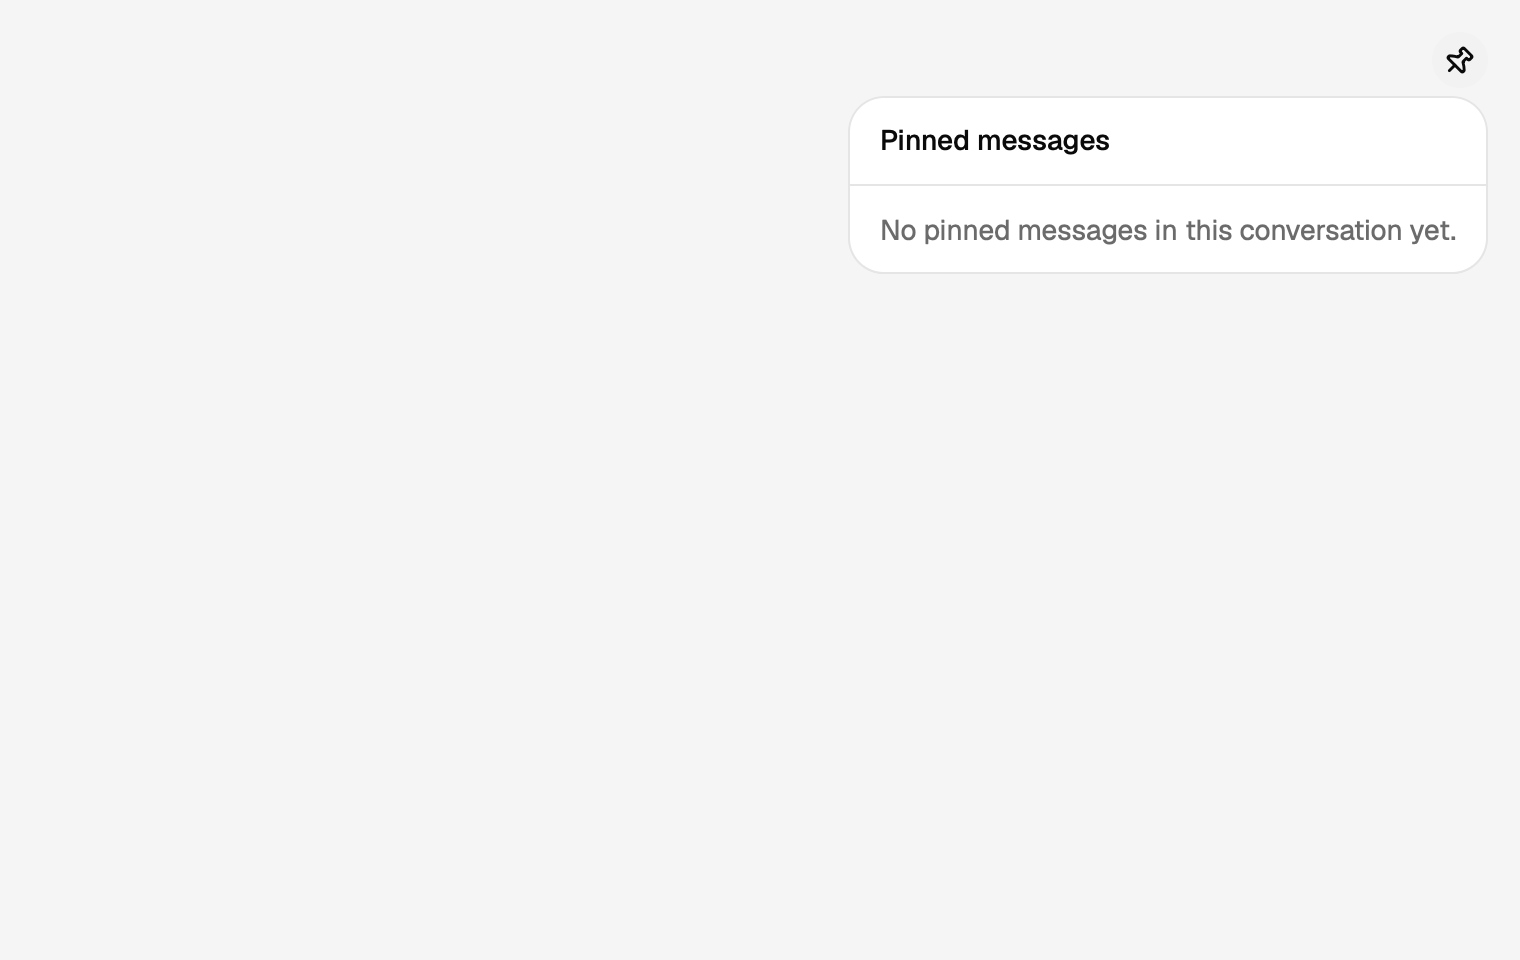
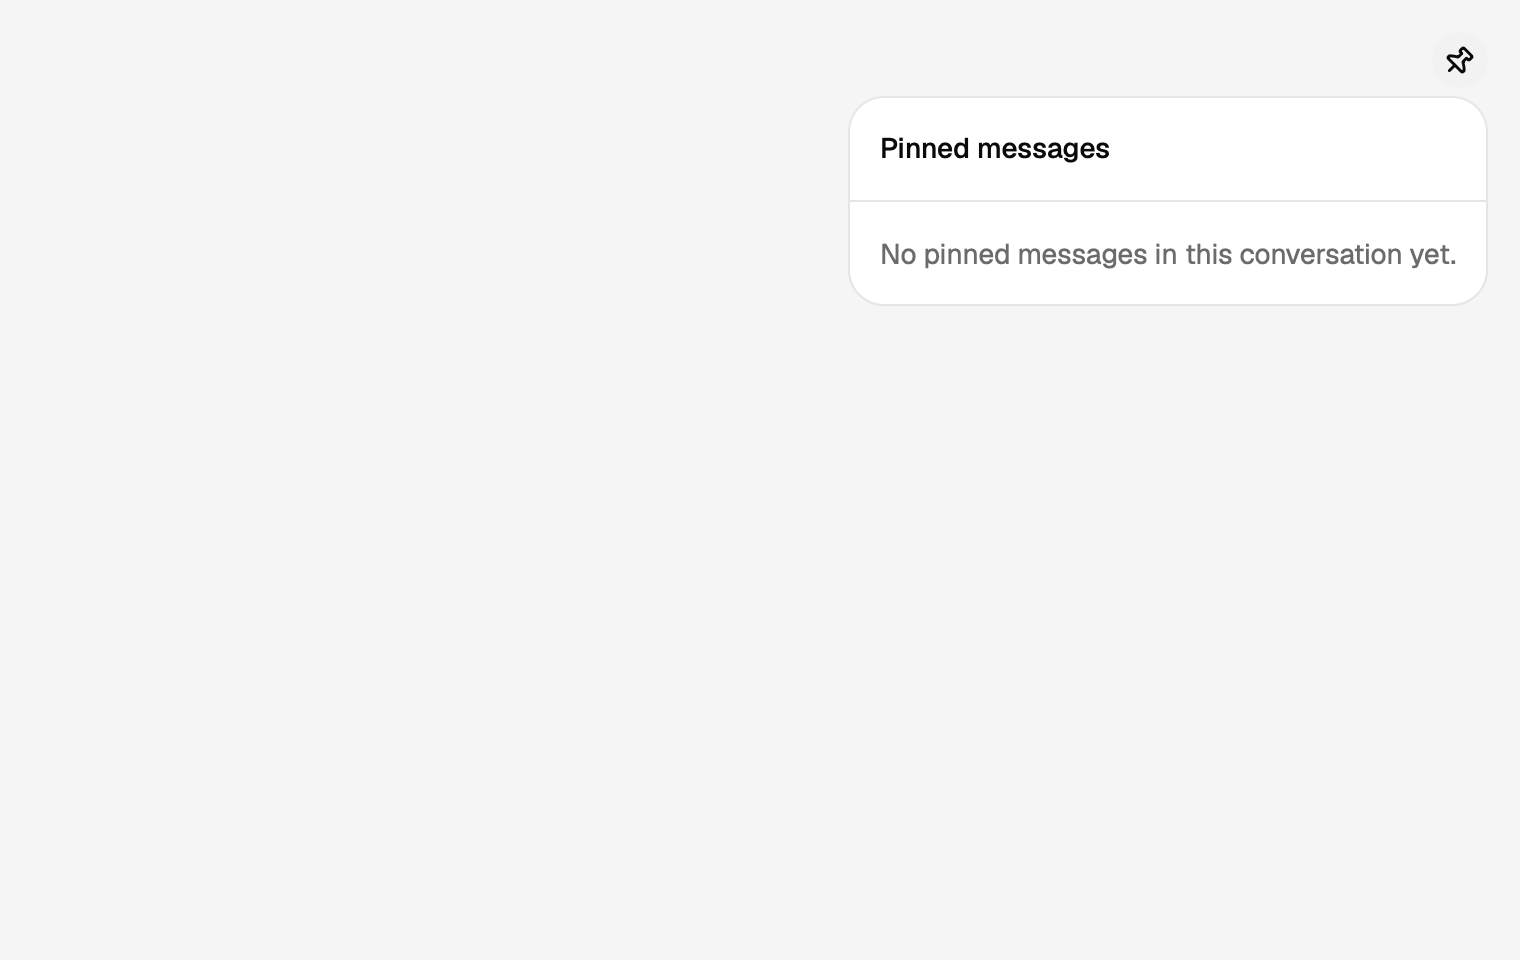
fix(rune-preview): keep the failed thread readable under a notice and pad the pinned panel evenly (OPE-1979)
A thread with a failed agent turn keeps its transcript and takes a
notice in its own row below it: title, description and an action that
emits ThreadEvent::NoticeAction, drawn from thread type and colour
tokens with the kit Button. A transcript that fails to load shows what
failed and a Retry that emits ThreadEvent::RetryLoad, instead of the
not_drawn placeholder. layout-threadlayout--error now draws the
ThreadLayout Error story; the load failure gets its own scene. The
pinned panel heading, empty row and rows pad 16 on both axes.

Changed region(s): [[0.5566, 0.125, 0.9586, 0.2812]]

diff --git a/apps/rune-preview/kit/src/surfaces/s05_thread.rs b/apps/rune-preview/kit/src/surfaces/s05_thread.rs
@@ -1,14 +1,15 @@
 use std::rc::Rc;
 
 use rune::image::Image;
-use rune::{El, ScrollSpec, col, row, text};
+use rune::{El, ScrollSpec, col, icon, row, text};
 
 use crate::avatar::Face;
+use crate::icons;
 use crate::math::Typesetter;
+use crate::primitives::button::{Button, ButtonSize, ButtonVariant};
 use crate::strings::{Language, chat};
 use crate::surfaces::s08_missions::{self, Bot, EventKind, EventLink, MissionsEvent};
-use crate::tokens::{SPACING, TEXT_BASE_SEMIBOLD, TEXT_SM, Tokens};
-use crate::widgets::not_drawn;
+use crate::tokens::{RADIUS_2XL, SPACING, TEXT_BASE_SEMIBOLD, TEXT_SM, TEXT_SM_MEDIUM, Tokens};
 
 mod body;
 mod furniture;
@@ -41,6 +42,8 @@ pub enum ThreadEvent {
 	JumpToPinned(String),
 	QuoteSelection,
 	ClearSelection,
+	NoticeAction,
+	RetryLoad,
 	Mission(MissionsEvent),
 }
 
@@ -168,6 +171,14 @@ pub struct Thread {
 	pub space_hue: Option<f32>,
 	pub roster: Vec<Agent>,
 	pub transcript: Transcript,
+	pub notice: Option<ThreadNotice>,
+}
+
+#[derive(Clone, Debug, PartialEq)]
+pub struct ThreadNotice {
+	pub title: String,
+	pub description: String,
+	pub action: String,
 }
 
 pub struct Context<'a, S> {
@@ -196,10 +207,12 @@ pub fn thread<S: 'static>(t: &Tokens, math: &Typesetter, data: &Thread, emit: &E
 		_ => chat::transcript::LABEL,
 	};
 	let surface = col().w_full().h_full().min_h(0.0).fill(t.background).label(cx.say(label));
-	match &data.transcript {
+	let surface = match &data.transcript {
 		Transcript::Loading => surface.child(column(transcript_skeleton(t))),
 		Transcript::Failed { title, detail } => {
-			surface.center().padding(SPACING * 6.0).child(not_drawn(t, title, detail))
+			let failure =
+				Notice { title, description: detail, action: cx.say(chat::notice::RETRY) };
+			surface.center().child(notice_row(&cx, &failure, ThreadEvent::RetryLoad))
 		}
 		Transcript::Rows(rows) if rows.is_empty() => surface.center().child(empty(&cx, &data.kind)),
 		Transcript::Rows(rows) => surface.child(
@@ -219,7 +232,77 @@ pub fn thread<S: 'static>(t: &Tokens, math: &Typesetter, data: &Thread, emit: &E
 						.children(rows.iter().map(|shown| row_view(&cx, &data.kind, shown))),
 				)),
 		),
+	};
+	match &data.notice {
+		Some(shown) => {
+			let shown = Notice {
+				title: &shown.title,
+				description: &shown.description,
+				action: &shown.action,
+			};
+			surface.child(notice_row(&cx, &shown, ThreadEvent::NoticeAction))
+		}
+		None => surface,
 	}
+}
+
+struct Notice<'a> {
+	title: &'a str,
+	description: &'a str,
+	action: &'a str,
+}
+
+const NOTICE_GLYPH: f32 = SPACING * 4.0;
+
+fn notice_row<S: 'static>(cx: &Context<S>, shown: &Notice, event: ThreadEvent) -> El {
+	let t = cx.t;
+	let emit = Rc::clone(cx.emit);
+	let action = Button::new(shown.action)
+		.variant(ButtonVariant::Outline)
+		.size(ButtonSize::Sm)
+		.view(t)
+		.on_press(move |s: &mut S| emit(s, event.clone()));
+	let notice = row()
+		.w_full()
+		.gap(SPACING * 3.0)
+		.padding(SPACING * 3.0)
+		.radius(RADIUS_2XL)
+		.border(1.0, t.destructive.alpha(0.3))
+		.fill(t.destructive.alpha(0.1))
+		.items_start()
+		.role("alert")
+		.child(icon(&icons::TRIANGLE_ALERT, NOTICE_GLYPH).color(t.destructive).mt(SPACING * 0.5))
+		.child(
+			col()
+				.grow(1.0)
+				.min_w(0.0)
+				.gap(SPACING * 2.0)
+				.items_start()
+				.child(
+					col()
+						.w_full()
+						.gap(SPACING)
+						.child(
+							text(shown.title.to_owned())
+								.font(TEXT_SM_MEDIUM)
+								.color(t.foreground)
+								.wrap(),
+						)
+						.child(
+							text(shown.description.to_owned())
+								.font(TEXT_SM)
+								.color(t.soft_foreground)
+								.wrap(),
+						),
+				)
+				.child(action),
+		);
+	row()
+		.w_full()
+		.justify_center()
+		.px(COLUMN_INSET)
+		.pb(SPACING * 4.0)
+		.child(col().w_full().max_w(COLUMN).child(notice))
 }
 
 pub fn column(content: El) -> El {

diff --git a/apps/rune-preview/kit/src/scenes/thread.rs b/apps/rune-preview/kit/src/scenes/thread.rs
@@ -9,9 +9,9 @@ use crate::primitives::context_menu::{MenuItem, MenuRow, context_menu};
 use crate::strings::Language;
 use crate::surfaces::s05_thread::{
 	Agent, Attachment, Author, Body, Context, Emit, MissionEvent, PinnedMessage, Quote, Row,
-	SelectionToolbar, Surface, Thread, ThreadKind, ToolbarAction, Transcript, Turn, TurnState,
-	WorkLine, WorkState, WorkingAgent, body, column, day_separator, message_menu, pinned_messages,
-	selection_toolbar, thread, transcript_skeleton, turn, work_line,
+	SelectionToolbar, Surface, Thread, ThreadKind, ThreadNotice, ToolbarAction, Transcript, Turn,
+	TurnState, WorkLine, WorkState, WorkingAgent, body, column, day_separator, message_menu,
+	pinned_messages, selection_toolbar, thread, transcript_skeleton, turn, work_line,
 };
 use crate::surfaces::s08_missions::EventKind;
 use crate::tokens::{RADIUS_XL, SPACING, TEXT_COMPACT, Tokens};
@@ -520,12 +520,23 @@ fn mission_rows() -> Vec<Row> {
 }
 
 fn thread_scene(t: &Tokens, s: &SceneState, kind: ThreadKind, transcript: Transcript) -> El {
+	noticed_thread_scene(t, s, kind, transcript, None)
+}
+
+fn noticed_thread_scene(
+	t: &Tokens,
+	s: &SceneState,
+	kind: ThreadKind,
+	transcript: Transcript,
+	notice: Option<ThreadNotice>,
+) -> El {
 	let data = Thread {
 		kind,
 		language: Language::En,
 		space_hue: Some(Preset::Blue.hue()),
 		roster: roster(),
 		transcript,
+		notice,
 	};
 	let emit: Emit<SceneState> = Rc::new(|_, _| {});
 	rune_kit::root(thread(t, &s.math, &data, &emit), Vec::new())
@@ -626,6 +637,19 @@ pub(super) fn layout_empty(t: &Tokens, s: &SceneState) -> El {
 }
 
 pub(super) fn layout_error(t: &Tokens, s: &SceneState) -> El {
+	let rows = vec![
+		Row::Turn(Turn::new("e1", Author::You, "How is this workspace laid out?")),
+		Row::Turn(Turn { state: TurnState::Failed, ..Turn::new("e2", Author::Agent(atlas()), "") }),
+	];
+	let notice = ThreadNotice {
+		title: "The agent stopped".to_owned(),
+		description: "The agent exited (code 1). Restart the session.".to_owned(),
+		action: "Restart session".to_owned(),
+	};
+	noticed_thread_scene(t, s, ThreadKind::Solo(atlas()), Transcript::Rows(rows), Some(notice))
+}
+
+pub(super) fn layout_load_failure(t: &Tokens, s: &SceneState) -> El {
 	let failure = Transcript::Failed {
 		title: "Couldn't load this conversation.".to_owned(),
 		detail: "The host didn't answer. Try again in a moment.".to_owned(),

diff --git a/apps/rune-preview/kit/src/surfaces/s05_thread/furniture.rs b/apps/rune-preview/kit/src/surfaces/s05_thread/furniture.rs
@@ -128,6 +128,7 @@ pub struct PinnedMessage {
 }
 
 const PANEL_WIDTH: f32 = SPACING * 80.0;
+const PANEL_PADDING: f32 = SPACING * 4.0;
 const PANEL_LIST: f32 = SPACING * 80.0;
 const PINNED_AVATAR: f32 = SPACING * 6.0;
 const EXCERPT_LINES: usize = 3;
@@ -176,14 +177,12 @@ fn panel<S: 'static>(cx: &Context<S>, pinned: &[PinnedMessage], title: &str) -> 
 	let t = cx.t;
 	let heading = row()
 		.w_full()
-		.px(SPACING * 4.0)
-		.py(SPACING * 3.0)
+		.padding(PANEL_PADDING)
 		.child(text(title.to_owned()).font(TEXT_SM_MEDIUM).color(t.popover_foreground));
 	let body = if pinned.is_empty() {
 		row()
 			.w_full()
-			.px(SPACING * 4.0)
-			.py(SPACING * 3.0)
+			.padding(PANEL_PADDING)
 			.child(text(cx.say(chat::pinned::EMPTY)).font(TEXT_SM).color(t.muted_foreground).wrap())
 	} else {
 		let mut list = col().w_full().max_h(PANEL_LIST).scroll(ScrollSpec { stick_bottom: false });
@@ -262,8 +261,7 @@ fn pinned_row<S: 'static>(cx: &Context<S>, message: &PinnedMessage) -> El {
 		row()
 			.w_full()
 			.gap(SPACING * 2.5)
-			.px(SPACING * 4.0)
-			.py(SPACING * 3.0)
+			.padding(PANEL_PADDING)
 			.hover(t.muted.alpha(t.muted.a * 0.4))
 			.items_start()
 			.child(face.a11y_hidden())

diff --git a/apps/rune-preview/kit/src/scenes.rs b/apps/rune-preview/kit/src/scenes.rs
@@ -859,6 +859,7 @@ pub static SCENES: &[Scene] = &[
 		thread::layout_start_of_older_messages,
 	),
 	scene("layout-threadlayout--error", thread::PANEL, thread::layout_error),
+	scene("layout-threadlayout--load-failure", thread::PANEL, thread::layout_load_failure),
 	scene("layout-threadlayout--pending", thread::PANEL, thread::layout_pending),
 	focused("conversation-message-turn--focus-visible", thread::LINE, 1, thread::focus_ring),
 	scene(
